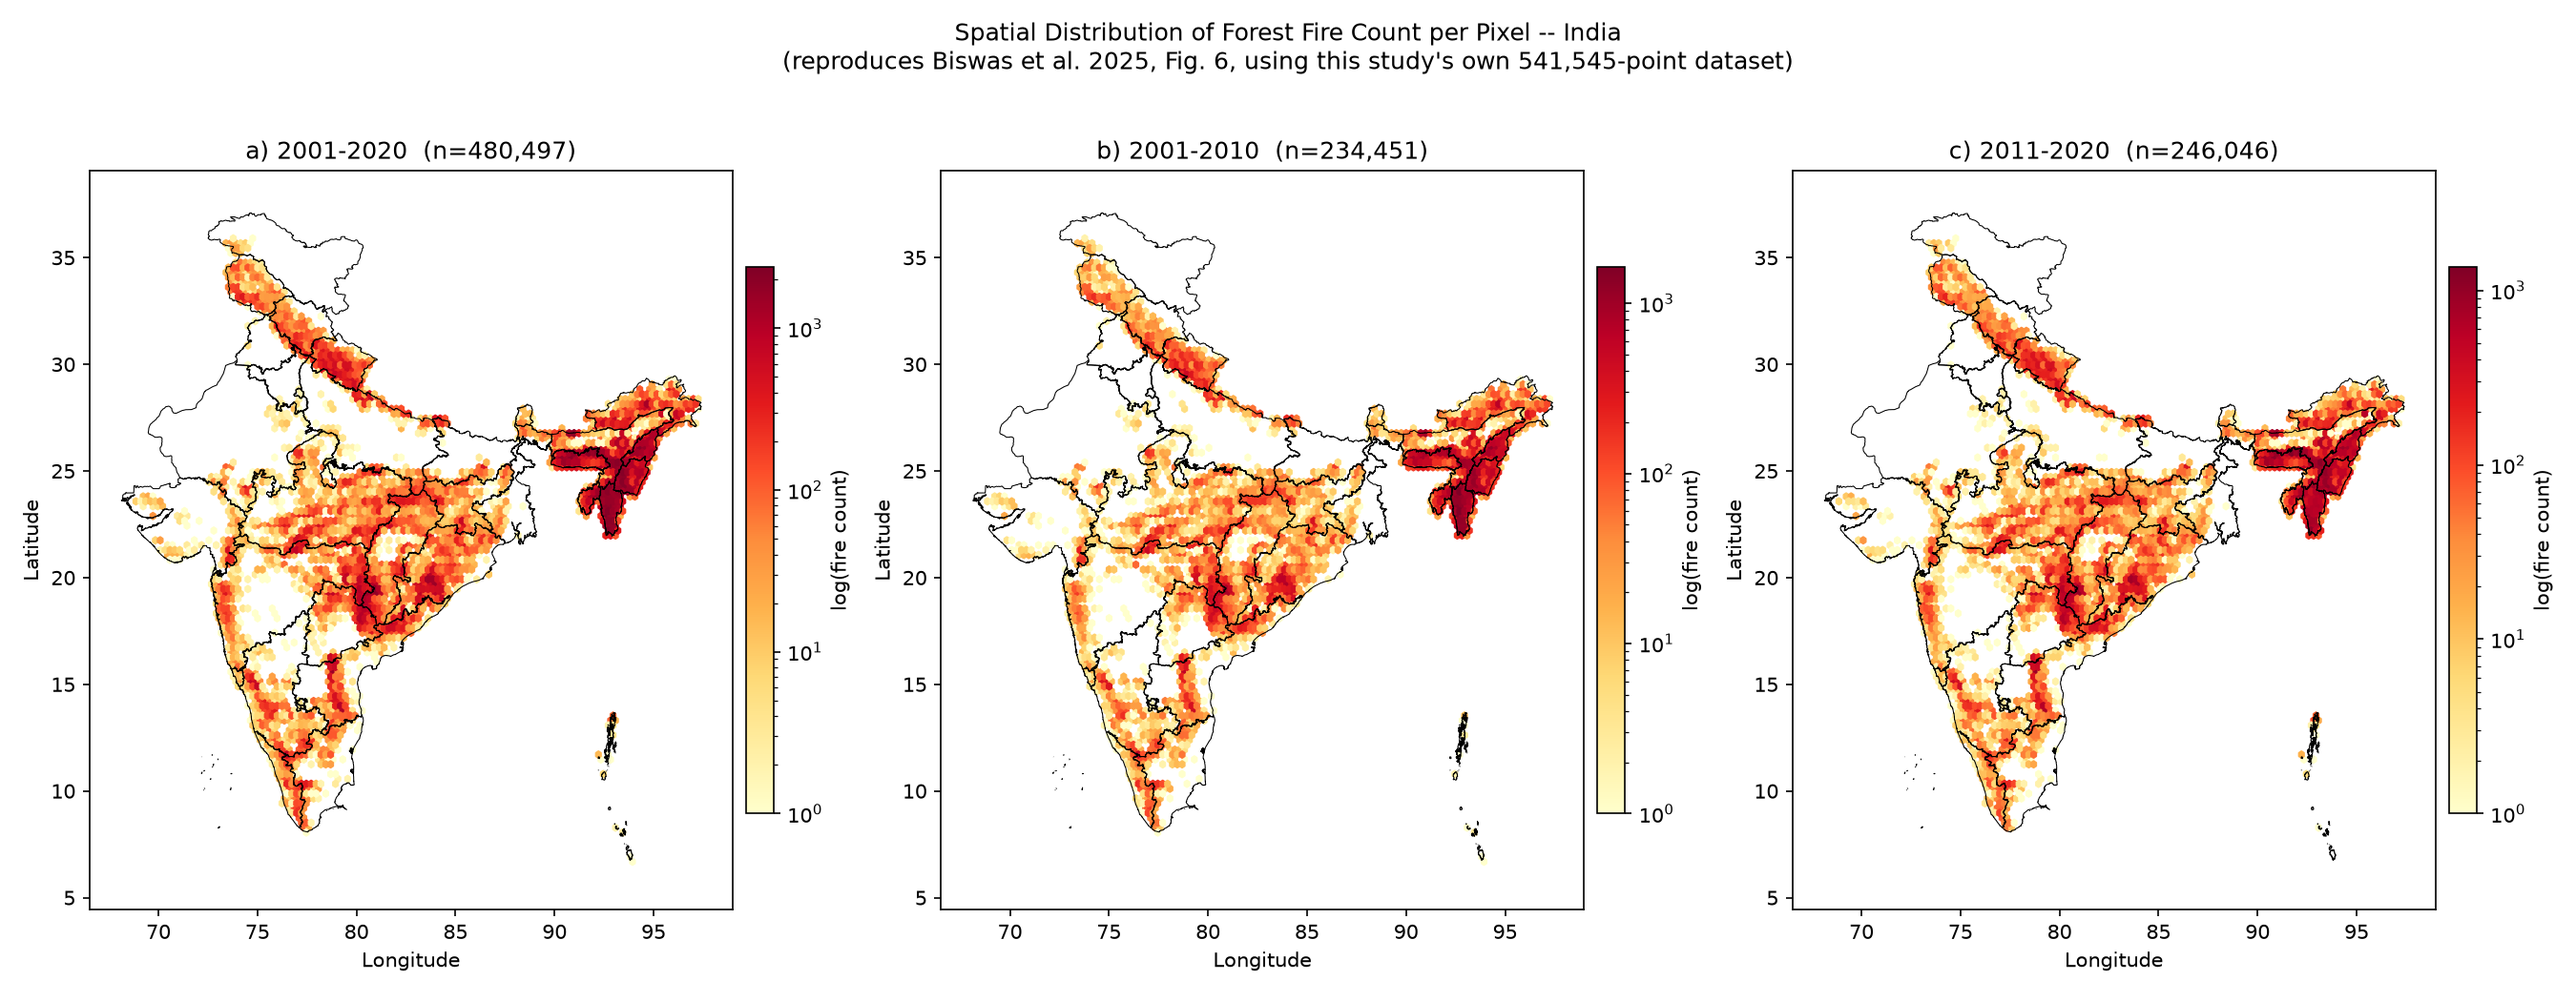
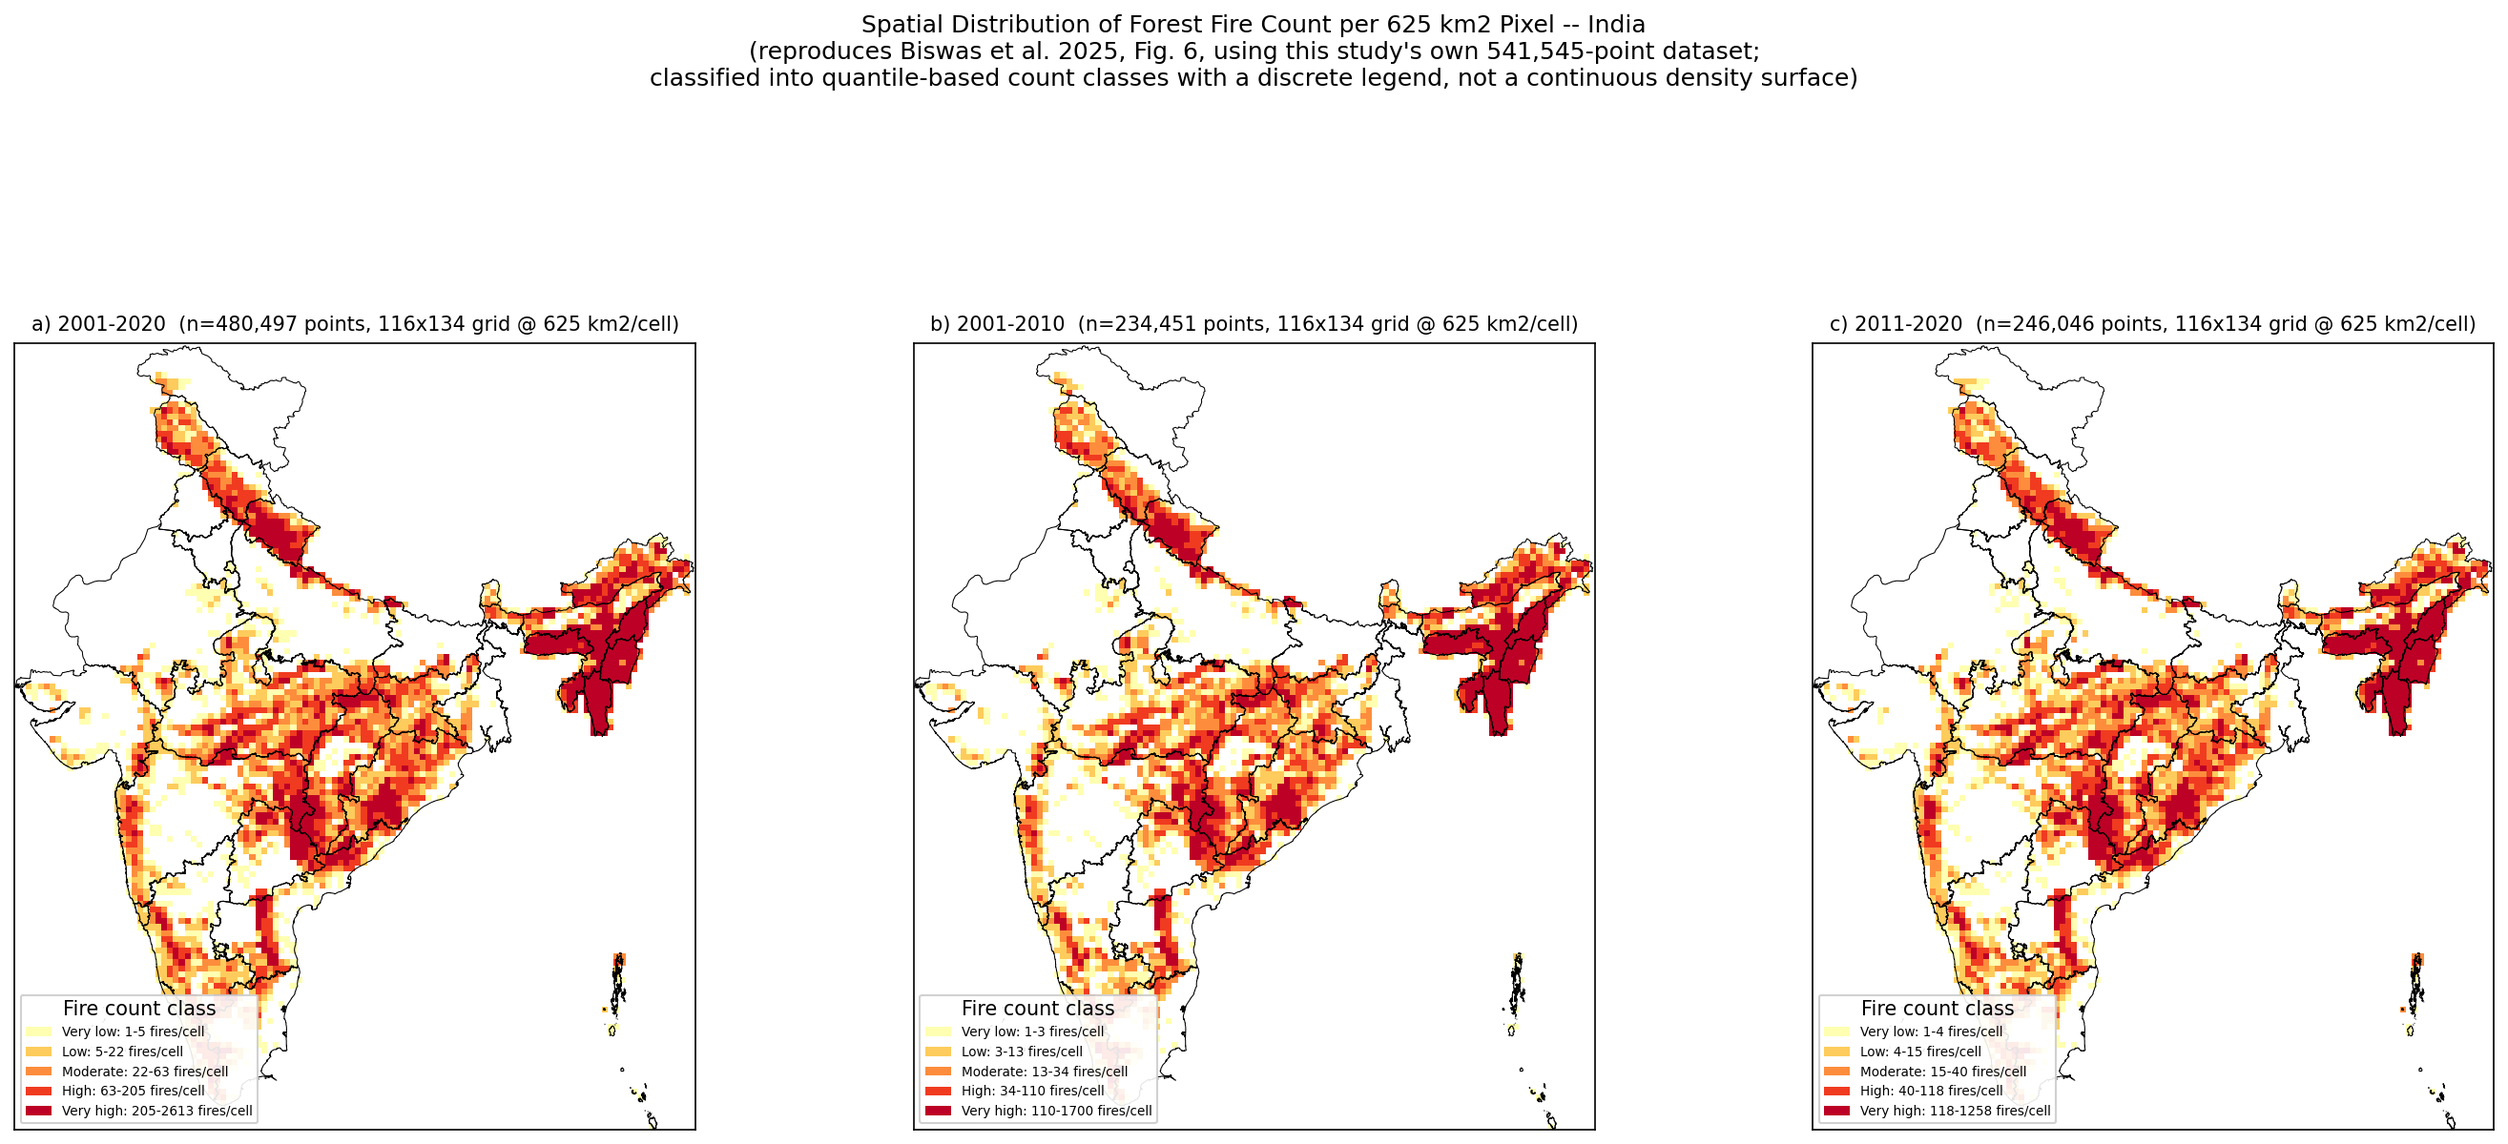
Rebuild Fig 6 as a classified choropleth with a discrete class legend
Previous version used a continuous hexbin + log-scale colorbar, unlike Biswas
et al.'s classified fire-count-per-pixel map -- no discrete legend boxes
showing the count distribution by class, which is what their Fig. 6 (and
standard fire-density choropleth convention) uses.

Rebuilt on a real 625 km^2 (25km x 25km) equal-area grid -- Albers Equal-Area
Conic centered on India (standard parallels 12N/32N), matching Biswas et al.'s
exact stated Fig. 6 resolution instead of an unprojected degree-grid
approximation. Fire counts binned into 5 quantile-based classes per period,
plotted as a discrete choropleth with a colored-box legend (count range per
class) instead of a continuous gradient. Point totals per period unchanged
(480,497 / 234,451 / 246,046), confirming this is a rendering fix, not a
data change.

diff --git a/Biswas_Comparison_Figures/fig06_fire_density_3period.py b/Biswas_Comparison_Figures/fig06_fire_density_3period.py
@@ -1,25 +1,53 @@
 """Reproduces Biswas et al. (2025) Fig. 6 -- spatial distribution of forest fire
-count per pixel for (a) 2001-2020, (b) 2001-2010, (c) 2011-2020 -- using this
-study's own real fire-point data, for direct visual comparison."""
+count per pixel (625 km^2, their exact stated resolution) for (a) 2001-2020,
+(b) 2001-2010, and (c) 2011-2020 -- using this study's own real fire-point data.
+
+Rebuilt from a continuous hexbin+log-colorbar version to a proper classified
+choropleth: a real 25km x 25km (625 km^2) equal-area grid (Albers Equal-Area
+Conic centered on India, standard parallels 12N/32N -- the conventional choice
+for India-extent equal-area grids), fire counts binned into discrete classes,
+plotted with a legend of colored boxes (one per class) rather than a continuous
+colorbar -- matching the classified-map convention Biswas et al.'s Fig. 6 uses
+and giving a real per-class distribution instead of an unbinned density surface."""
 import pandas as pd
 import numpy as np
 import matplotlib
 matplotlib.use("Agg")
 import matplotlib.pyplot as plt
+from matplotlib.colors import BoundaryNorm, ListedColormap
+from matplotlib.patches import Patch
 import geopandas as gpd
 
 FIRE_CSV = r"D:\FOREST FIRE MAPPING(INDIA)\Forest fire Extraction in INDIA(2000-2022)\Forest_Fire_Outputs\all_forest_fires_2000_2022.csv"
 BOUNDARY_SHP = r"D:\FOREST FIRE MAPPING(INDIA)\LST_analysis\India_State_Boundary.shp"
 OUT_PATH = r"D:\FOREST FIRE MAPPING(INDIA)\Biswas_Comparison_Figures\Fig06_FireDensity_3Period.png"
 
+# Albers Equal-Area Conic centered on India -- standard parallels 12N/32N is the
+# conventional choice for India-extent equal-area analyses (matches common
+# India climate/GIS grid definitions), giving true km^2 cell areas rather than
+# an unprojected degree-grid approximation.
+AEA_CRS = "+proj=aea +lat_1=12 +lat_2=32 +lat_0=22 +lon_0=82 +datum=WGS84 +units=m +no_defs"
+CELL_M = 25_000.0  # 25km x 25km = 625 km^2, matching Biswas et al.'s stated Fig. 6 resolution
+
 df = pd.read_csv(FIRE_CSV)
 df["acq_date"] = pd.to_datetime(df["acq_date"])
 df["year"] = df["acq_date"].dt.year
 
+pts = gpd.GeoDataFrame(df, geometry=gpd.points_from_xy(df["longitude"], df["latitude"]), crs="EPSG:4326")
+pts_aea = pts.to_crs(AEA_CRS)
+df["x_aea"] = pts_aea.geometry.x
+df["y_aea"] = pts_aea.geometry.y
+
 boundary = gpd.read_file(BOUNDARY_SHP)
 if boundary.crs is None:
     boundary = boundary.set_crs("EPSG:3857", allow_override=True)
-boundary = boundary.to_crs("EPSG:4326")
+boundary_aea = boundary.to_crs(AEA_CRS)
+
+xmin, ymin, xmax, ymax = boundary_aea.total_bounds
+nx = int(np.ceil((xmax - xmin) / CELL_M))
+ny = int(np.ceil((ymax - ymin) / CELL_M))
+xedges = xmin + np.arange(nx + 1) * CELL_M
+yedges = ymin + np.arange(ny + 1) * CELL_M
 
 periods = [
     ("a) 2001-2020", df[(df["year"] >= 2001) & (df["year"] <= 2020)]),
@@ -27,19 +55,43 @@ periods = [
     ("c) 2011-2020", df[(df["year"] >= 2011) & (df["year"] <= 2020)]),
 ]
 
-fig, axes = plt.subplots(1, 3, figsize=(18, 7))
-for ax, (label, sub) in zip(axes, periods):
-    boundary.boundary.plot(ax=ax, color="black", linewidth=0.5)
-    hb = ax.hexbin(sub["longitude"], sub["latitude"], gridsize=120, cmap="YlOrRd",
-                    bins="log", mincnt=1, extent=[68, 97.5, 6, 37.5])
-    ax.set_title(f"{label}  (n={len(sub):,})")
-    ax.set_xlabel("Longitude")
-    ax.set_ylabel("Latitude")
-    fig.colorbar(hb, ax=ax, fraction=0.04, pad=0.02, label="log(fire count)")
+# Discrete classification: 5 classes via quantile breaks on nonzero cells (a
+# standard classified-choropleth scheme -- comparable in spirit to Biswas et
+# al.'s own classed fire-density symbology, though their exact break method
+# isn't stated in the paper text).
+CLASS_LABELS = ["Very low", "Low", "Moderate", "High", "Very high"]
+CMAP = ListedColormap(["#ffffb2", "#fecc5c", "#fd8d3c", "#f03b20", "#bd0026"])
 
-fig.suptitle("Spatial Distribution of Forest Fire Count per Pixel -- India\n"
-             "(reproduces Biswas et al. 2025, Fig. 6, using this study's own 541,545-point dataset)")
-fig.tight_layout()
-fig.savefig(OUT_PATH, dpi=150, facecolor="white")
+fig, axes = plt.subplots(1, 3, figsize=(19, 7.5))
+for ax, (label, sub) in zip(axes, periods):
+    counts, _, _ = np.histogram2d(sub["x_aea"], sub["y_aea"], bins=[xedges, yedges])
+    nonzero = counts[counts > 0]
+    bounds = np.unique(np.quantile(nonzero, [0, 0.2, 0.4, 0.6, 0.8, 1.0]))
+    if len(bounds) < 2:
+        bounds = np.array([nonzero.min() if len(nonzero) else 0, (nonzero.max() if len(nonzero) else 1) + 1])
+    n_classes = len(bounds) - 1
+    class_cmap = ListedColormap(CMAP.colors[:n_classes])
+    norm = BoundaryNorm(bounds, n_classes)
+
+    masked = np.ma.masked_where(counts.T == 0, counts.T)
+    boundary_aea.boundary.plot(ax=ax, color="black", linewidth=0.5, zorder=3)
+    ax.pcolormesh(xedges, yedges, masked, cmap=class_cmap, norm=norm, zorder=2)
+    ax.set_title(f"{label}  (n={len(sub):,} points, {nx}x{ny} grid @ 625 km2/cell)", fontsize=10)
+    ax.set_xticks([]); ax.set_yticks([])
+    ax.set_aspect("equal")
+
+    class_labels_this = CLASS_LABELS[:n_classes] if n_classes <= 5 else [f"Class {i+1}" for i in range(n_classes)]
+    handles = [Patch(facecolor=class_cmap(i),
+                      label=f"{class_labels_this[i]}: {int(bounds[i])}-{int(bounds[i+1])} fires/cell")
+               for i in range(n_classes)]
+    ax.legend(handles=handles, loc="lower left", fontsize=6.5, framealpha=0.9, title="Fire count class")
+
+fig.suptitle("Spatial Distribution of Forest Fire Count per 625 km2 Pixel -- India\n"
+             "(reproduces Biswas et al. 2025, Fig. 6, using this study's own 541,545-point dataset;\n"
+             "classified into quantile-based count classes with a discrete legend, not a continuous density surface)",
+             y=1.06)
+fig.tight_layout(rect=[0, 0, 1, 0.86])
+fig.savefig(OUT_PATH, dpi=150, facecolor="white", bbox_inches="tight")
 print(f"Saved: {OUT_PATH}")
 print(f"Counts: 2001-2020={len(periods[0][1]):,}, 2001-2010={len(periods[1][1]):,}, 2011-2020={len(periods[2][1]):,}")
+print(f"Grid: {nx} x {ny} cells, {CELL_M/1000:.0f}km x {CELL_M/1000:.0f}km = {(CELL_M/1000)**2:.0f} km2/cell")
